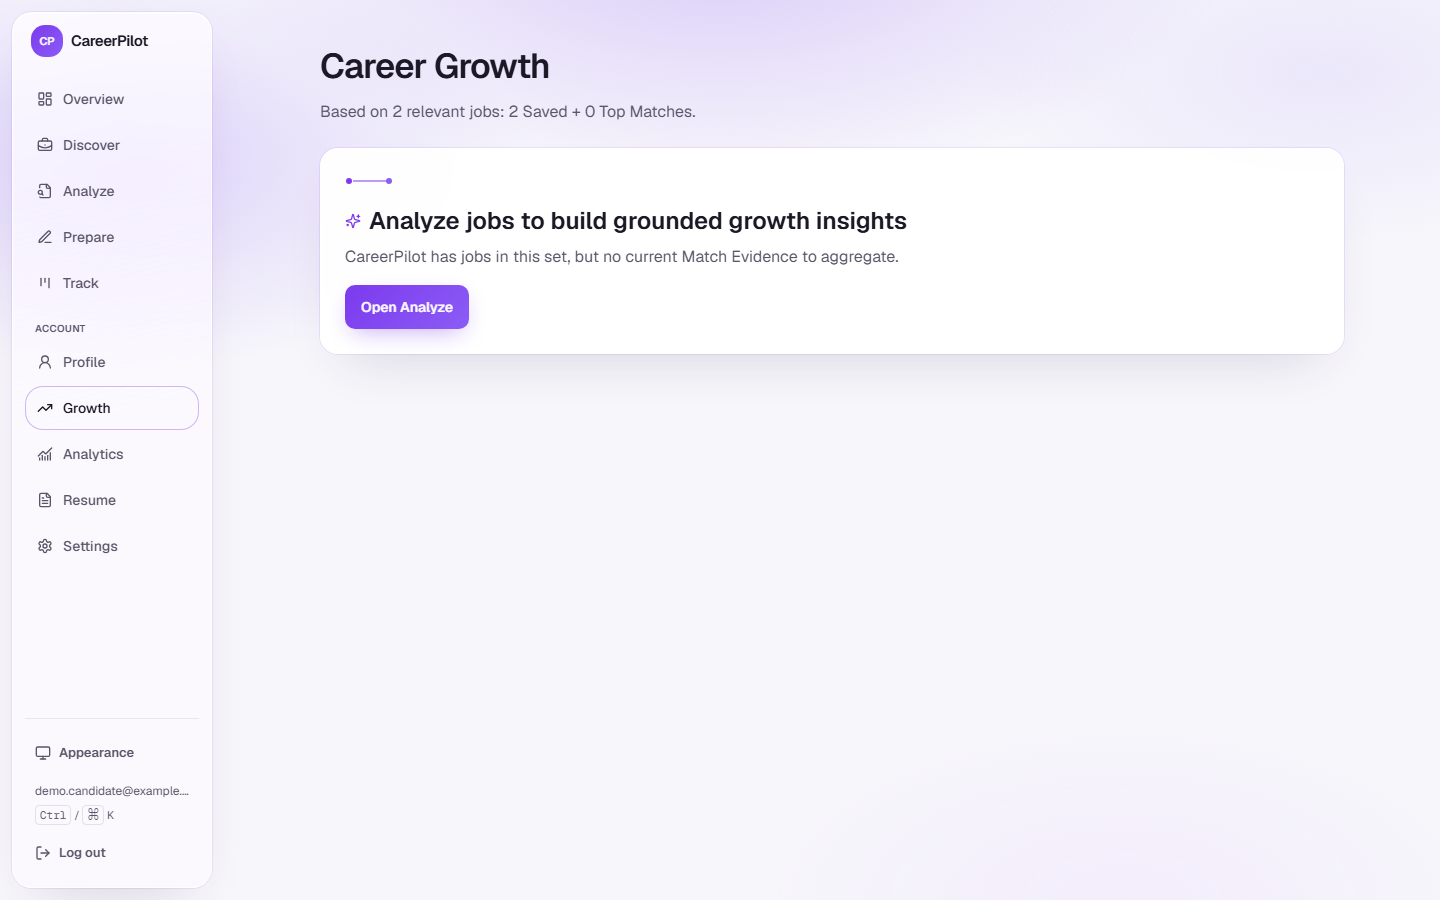
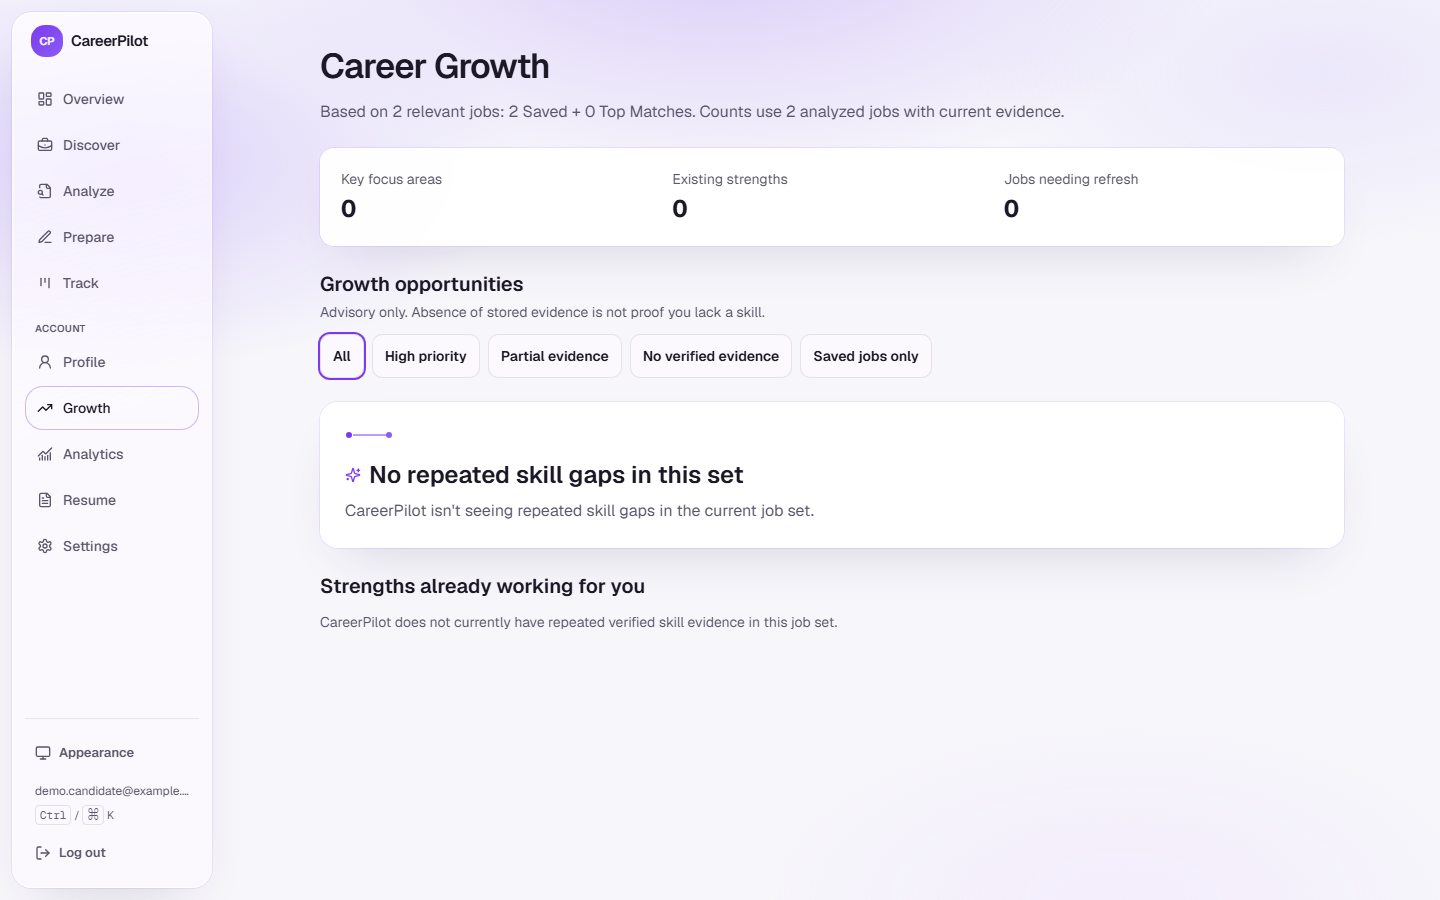
Recapture showcase landing and Discover to match post-#103 product.
Replace leftover tag-v1.0.0 release copy and stale globe/duplicate-Remote captions so the recruiter package matches PublicStage and Remote · Internship.

diff --git a/scripts/seed_showcase_demo.py b/scripts/seed_showcase_demo.py
@@ -64,6 +64,30 @@ def refuse_database_path(path: Path) -> Path:
     return resolved
 
 
+def _add_listing_profile(session, job, **fields) -> None:
+    """Current requirement snapshot so Discover labels stay deterministic."""
+    from backend.db.models import JobRequirementProfileRecord
+    from backend.schemas.job_requirements import EXTRACTION_VERSION
+    from backend.services.job_content import source_fingerprint
+
+    fingerprint = source_fingerprint(job.title, job.description)
+    job.content_hash = fingerprint
+    session.add(
+        JobRequirementProfileRecord(
+            job_id=job.id,
+            source_fingerprint=fingerprint,
+            extraction_version=EXTRACTION_VERSION,
+            content_status="full",
+            profile_json={
+                "source_fingerprint": fingerprint,
+                "extraction_version": EXTRACTION_VERSION,
+                **fields,
+            },
+        )
+    )
+    session.commit()
+
+
 def _seed(session) -> dict[str, str]:
     from backend.core.security import hash_password
     from backend.db.models import (
@@ -114,7 +138,8 @@ def _seed(session) -> dict[str, str]:
         salary=None,
         url="https://example.com/showcase/harborline-intern",
         description=(
-            "DEMO / SYNTHETIC posting. Required: Python and SQL. Preferred: Docker. "
+            "DEMO / SYNTHETIC posting. Summer internship. This is a remote internship. "
+            "Required: Python and SQL. Preferred: Docker. "
             "Build internal APIs and tests. Not a real employer endorsement."
         ),
         source="manual",
@@ -129,14 +154,16 @@ def _seed(session) -> dict[str, str]:
         salary=None,
         url="https://example.com/showcase/cedar-backend",
         description=(
-            "DEMO / SYNTHETIC posting. Required: Python. Preferred: SQL. "
-            "Not a real employer endorsement."
+            "DEMO / SYNTHETIC posting. Summer internship. Hybrid work in Portland, OR. "
+            "Required: Python. Preferred: SQL. Not a real employer endorsement."
         ),
         source="manual",
         status="verified",
     )
     session.add_all([intern, long_title])
     session.commit()
+    _add_listing_profile(session, intern, work_mode="remote", employment_type="internship")
+    _add_listing_profile(session, long_title, work_mode="hybrid", employment_type="internship")
     insert_intelligence(session, intern)
     insert_intelligence(session, long_title)
 

diff --git a/scripts/capture_showcase_screenshots.py b/scripts/capture_showcase_screenshots.py
@@ -212,6 +212,10 @@ def main() -> int:
         page.screenshot(path=str(out / "02-profile-readiness.png"), full_page=False)
 
         page.goto(f"{base}/jobs", wait_until="networkidle")
+        page.get_by_role(
+            "button",
+            name="Select Software Engineer Intern at Harborline Analytics",
+        ).click()
         page.wait_for_timeout(400)
         page.screenshot(path=str(out / "03-discover.png"), full_page=False)
 

diff --git a/docs/showcase/visual-qa.md b/docs/showcase/visual-qa.md
@@ -34,38 +34,47 @@ REASON: Default Overview is reasonable for posting context; do not change analys
 ---
 
 SCREEN: Career Growth
-ISSUE: Empty state when jobs exist but Match Evidence has not been aggregated.
-SEVERITY: P3 (honest empty, not a defect)
-EVIDENCE: `07-career-growth.png` — “no current Match Evidence to aggregate.”
-FIXED / DEFERRED: DEFERRED
-REASON: Inventing growth insights would violate grounding. Caption the screenshot as refusal-to-invent.
+ISSUE: Recapture on the current tree shows two analyzed jobs and “No repeated skill gaps,” not the older empty-evidence copy.
+SEVERITY: P3 (honest empty-of-gaps, not a defect)
+EVIDENCE: `07-career-growth.png` — zeros for invented focus areas; copy still refuses to fabricate skills.
+FIXED / DEFERRED: n/a
+REASON: Caption the screenshot as refusal-to-invent, not as “no jobs analyzed.”
+
+---
+
+SCREEN: Analyze job header meta
+ISSUE: Job Detail header still joins location and work mode as `Remote · Remote · Internship`. Discover card and preview do not.
+SEVERITY: P3
+EVIDENCE: Recaptured `04-match-evidence.png` vs `03-discover.png`. `formatJobCardMeta` is used by `JobCard` / `JobPreviewPanel` only.
+FIXED / DEFERRED: DEFERRED (product). Not this showcase PR.
+REASON: Do not fold a Job Detail presentation fix into docs/screenshots. Discover is the committed Remote · Internship story.
 
 ---
 
 SCREEN: Discover job meta line
-ISSUE: Harborline intern shows `Remote · Remote · Internship` when location and work mode are both Remote.
-SEVERITY: P3
-EVIDENCE: `03-discover.png` and 390 probe. `JobCard` joins `location`, `workLabel(job)`, employment.
-FIXED / DEFERRED: DEFERRED
-REASON: Literal join of two real fields. Deduping could hide work mode on other jobs. Seed could use a non-duplicative location later; no runtime change in this PR.
+ISSUE: Harborline intern previously showed `Remote · Remote · Internship` when location and work mode were both Remote.
+SEVERITY: was P3
+EVIDENCE: Recaptured `03-discover.png` on the post-#102/#103 tree. `formatJobCardMeta` drops adjacent duplicate labels. Card and preview both show `Remote · Internship`. Cedar remains a distinct city/work-mode pair (`Hybrid — Portland, OR`).
+FIXED / DEFERRED: FIXED on current main (not this showcase PR). Recapture documents the shipped UI.
+REASON: Showcase assets must match the final product. Do not treat duplicate Remote as a future/separate PR.
 
 ---
 
 SCREEN: Discover job cards (accessibility)
-ISSUE: The select-job control’s accessible name concatenates title, company, location, and badges (Playwright listed the whole card as a button name).
-SEVERITY: P3
-EVIDENCE: 390 probe `getByRole('button')` names.
-FIXED / DEFERRED: DEFERRED
-REASON: Pre-existing JobCard pattern. Changing it is an a11y code fix, not docs. Separate from showcase assets.
+ISSUE: The select-job control’s accessible name used to concatenate title, company, location, and badges.
+SEVERITY: was P3
+EVIDENCE: Current `selectJobCardLabel(title, company)` → `Select Software Engineer Intern at Harborline Analytics`.
+FIXED / DEFERRED: FIXED on current main (not this showcase PR).
+REASON: Capture script can target that concise name. No product change in this docs/screenshot PR.
 
 ---
 
-SCREEN: Landing / Login / Signup animation
-ISSUE: None blocking. Dotted globe and assembling lattice sit in `pointer-events: none` frames (`.hero-globe-frame`, `AuthFrame`). Reduced-motion capture used `emulate_media(reduced_motion=reduce)`. Dark login globe remains visible, not a black hole.
-SEVERITY: P3 (watch)
-EVIDENCE: `frontend/src/index.css` `.hero-globe-frame { pointer-events: none }`; dark login QA screenshot (not committed). CTA hit-test on `/` after an authenticated session is not applicable (landing is public; authenticated capture continued from cookie).
-FIXED / DEFERRED: DEFERRED
-REASON: No presentation defect requiring a behavior change. Native 200% browser zoom remains a human spot-check (CSS zoom probe showed no horizontal overflow).
+SCREEN: Landing / Login / Signup decoration
+ISSUE: Public/auth no longer uses a dotted globe or assembling-block lattice.
+SEVERITY: none
+EVIDENCE: `LandingPage.tsx` / `AuthFrame.tsx` render `PublicStage`. No `.hero-globe-frame`. Dashboard retains the dotted globe via `DashboardAtmosphere`. Reduced-motion capture used `emulate_media(reduced_motion=reduce)`.
+FIXED / DEFERRED: FIXED on current main (#103). Recapture `01-landing.png` to match PublicStage.
+REASON: Showcase must not show the retired globe/lattice. Native 200% browser zoom remains a human spot-check.
 
 ---
 
@@ -103,4 +112,4 @@ EVIDENCE: Dark login probe.
 FIXED / DEFERRED: DEFERRED for committed set
 REASON: One theme in the public screenshot strip. Dark is supported.
 
-No P0 or P1 visual defects. Track Kanban overflow, Prepare below-fold approval, default Overview tab, and Growth empty state stay by design. JobCard “Remote · Remote” and concatenated accessible names are a separate post-v1 presentation PR, not this showcase package.
+No P0 or P1 visual defects. Track Kanban overflow, Prepare below-fold approval, and default Overview tab stay by design. Discover card and preview show `Remote · Internship`. Public landing/auth use PublicStage; the dotted globe remains on Dashboard only. Career Growth recapture still refuses to invent skill gaps.

diff --git a/docs/showcase/screenshot-inventory.md b/docs/showcase/screenshot-inventory.md
@@ -2,7 +2,7 @@
 
 Primary viewport: **1440×900**, light theme, `prefers-reduced-motion: reduce`, Playwright Chromium, no browser chrome, no unrelated tabs.
 
-Source product: CareerPilot **v1.0.0** (`b73a983ed3605d498aa90070c3b5f786a73bc525`). Certified runtime for Fill/isolation remains `7b6c3ee100ca4fe6399ac29441bece8df71783c7`.
+Source product: current post-v1 tree after public/auth PublicStage (#103) and Discover metadata polish. Tagged release remains **v1.0.0** at `b73a983ed3605d498aa90070c3b5f786a73bc525`. Certified runtime for Fill/isolation remains `7b6c3ee100ca4fe6399ac29441bece8df71783c7`. This recapture does not move the tag.
 
 Data: isolated SQLite from `scripts/seed_showcase_demo.py`. Not `data/careerpilot.db`.
 
@@ -10,14 +10,14 @@ Data: isolated SQLite from `scripts/seed_showcase_demo.py`. Not `data/careerpilo
 
 | File | Demonstrates | Alt-text intent |
 | --- | --- | --- |
-| [01-landing.png](./screenshots/01-landing.png) | Public landing: grounded job search, never auto-submitted, dotted globe | Landing page with CareerPilot headline, Get Started / Sign In, and dotted globe |
+| [01-landing.png](./screenshots/01-landing.png) | Public landing: PublicStage glass card, no globe or lattice, never auto-submitted | Landing page with CareerPilot headline, Get Started / Sign In, and a PublicStage summary card |
 | [02-profile-readiness.png](./screenshots/02-profile-readiness.png) | Profile gate: identity, grounded evidence, target role all Ready | Profile page showing Discover unlocks only after identity, evidence, and target role |
-| [03-discover.png](./screenshots/03-discover.png) | Discover list + preview: synthetic internships, Potential Match, no fake offers | Discover workspace with two synthetic internships and a Potential Match preview |
+| [03-discover.png](./screenshots/03-discover.png) | Discover list + preview: synthetic internships, `Remote · Internship`, Potential Match, no fake offers | Discover workspace with two synthetic internships and a Potential Match preview |
 | [04-match-evidence.png](./screenshots/04-match-evidence.png) | Analyze → Evidence: satisfied Python/SQL, Docker not enough evidence | Job analysis Evidence tab citing Python and SQL, Docker marked not enough evidence |
 | [05-prepare.png](./screenshots/05-prepare.png) | Approved grounded materials, eligibility confirmation, immutable resume version | Prepare page with approved materials, eligibility checkbox, and resume version 1 |
 | [06-track.png](./screenshots/06-track.png) | Tracker list: saved vs ready_to_apply; follow-up export; `applied` not claimed | Track list showing one saved role and one approved ready-to-apply role |
 | [06b-analytics.png](./screenshots/06b-analytics.png) | Honest funnel: saved/generated/approved, applied/interview/offer at 0 | Analytics funnel with materials approved and applied/offer still zero |
-| [07-career-growth.png](./screenshots/07-career-growth.png) | Growth refuses to invent insights without stored Match Evidence | Career Growth empty state asking to analyze jobs rather than fabricating advice |
+| [07-career-growth.png](./screenshots/07-career-growth.png) | Growth does not invent skill gaps from this synthetic set | Career Growth showing no repeated skill gaps rather than fabricated advice |
 | [08-assisted-fill-boundary-mock.png](./screenshots/08-assisted-fill-boundary-mock.png) | Illustrative compatibility mock of assisted Fill vs manual EEO; Submit visible, not clicked | Illustrative mock of assisted Fill on a synthetic form — not the extension runtime |
 
 This file is an **illustrative compatibility mock** generated from `fixtures/generic-ats-form.html`. It is **not** a screenshot of the shipped Chrome extension runtime and **not** a live Greenhouse/Lever capture. It is not an employer endorsement. Live Fill was certified separately on Chrome 152 (release gate A8) against real Greenhouse and Lever pages.
@@ -37,7 +37,7 @@ The script:
 - Does not take `--email` / `--password` for an arbitrary account
 - Does not click Submit
 - Does not type into EEO fields
-- Opens Evidence on Job Detail
+- Opens Discover and selects the Harborline intern so the card and preview both show `Remote · Internship`
 - Scrolls Prepare to the approval rail
 - Uses Track **List** view so both seeded rows are visible (Kanban columns scroll horizontally by design)
 - Writes `08-assisted-fill-boundary-mock.png` from the local HTML fixture, labeled as a mock

diff --git a/docs/AI_REPO_MAP.md b/docs/AI_REPO_MAP.md
@@ -425,7 +425,7 @@ existing save/materials/approval/tracker mutations
 - Security: `.github/workflows/security.yml`
 - Manual: `docs/V1_RELEASE_CHECKLIST.md`, `docs/demo-runbook.md`
 - Broad checks: `scripts/test_mvp_foundation_browser.py`, `scripts/test_fit_scoring_matrix.py`, `scripts/test_candidate_profile_matrix.py --synthetic`
-- A8 (Chrome 152 Greenhouse + Lever), A9 (isolation/account deletion), and Phase 6 (adversarial audit) have passed. Automated tests still do not replace a live ATS re-check after fill or attachment code changes. Remaining public release action is Phase 8: tag `v1.0.0` and GitHub Release.
+- A8 (Chrome 152 Greenhouse + Lever), A9 (isolation/account deletion), and Phase 6 (adversarial audit) have passed. Automated tests still do not replace a live ATS re-check after fill or attachment code changes. Tag `v1.0.0` already shipped at `b73a983ed3605d498aa90070c3b5f786a73bc525` (GitHub Release exists). Remaining work is showcase/docs polish, not a new tag.
 ## 30. Core Data Flows
 **Profile → Discover**
 

diff --git a/README.md b/README.md
@@ -358,7 +358,7 @@ python scripts/live_ollama_gemini_check.py
 
 ## Git and release workflow
 
-Do **not** commit directly to `main`. Work on feature branches and merge through pull requests. v1 feature development is frozen. A8/A9/Phase 6 certified runtime SHA `7b6c3ee100ca4fe6399ac29441bece8df71783c7`. Annotated tag `v1.0.0` points at `b73a983ed3605d498aa90070c3b5f786a73bc525`: https://github.com/ManpreetS2/CareerPilot/releases/tag/v1.0.0
+Do **not** commit directly to `main`. Work on feature branches and merge through pull requests. v1 feature development is frozen. A8/A9/Phase 6 certified runtime SHA `7b6c3ee100ca4fe6399ac29441bece8df71783c7`. Tag `v1.0.0` already shipped and points at `b73a983ed3605d498aa90070c3b5f786a73bc525` (GitHub Release exists). Remaining work is showcase/docs polish, not a new tag: https://github.com/ManpreetS2/CareerPilot/releases/tag/v1.0.0
 
 ## Demo path
 

diff --git a/docs/showcase/README.md b/docs/showcase/README.md
@@ -29,7 +29,7 @@ These files describe the **shipped v1.0.0 product**. They do not change runtime 
 | Certified runtime (A8 / A9 / Phase 6) | `7b6c3ee100ca4fe6399ac29441bece8df71783c7` |
 | Release | https://github.com/ManpreetS2/CareerPilot/releases/tag/v1.0.0 |
 
-The showcase branch may add documentation, screenshots, and an isolated demo seeder. It does not move the `v1.0.0` tag.
+The showcase branch may add documentation, screenshots, and an isolated demo seeder. It does not move the `v1.0.0` tag. Landing/Discover screenshots were recaptured on the post-#103 tree (PublicStage; Discover `Remote · Internship`) so they match current product, not the older tagged landing globe.
 
 ## How screenshots were generated
 
